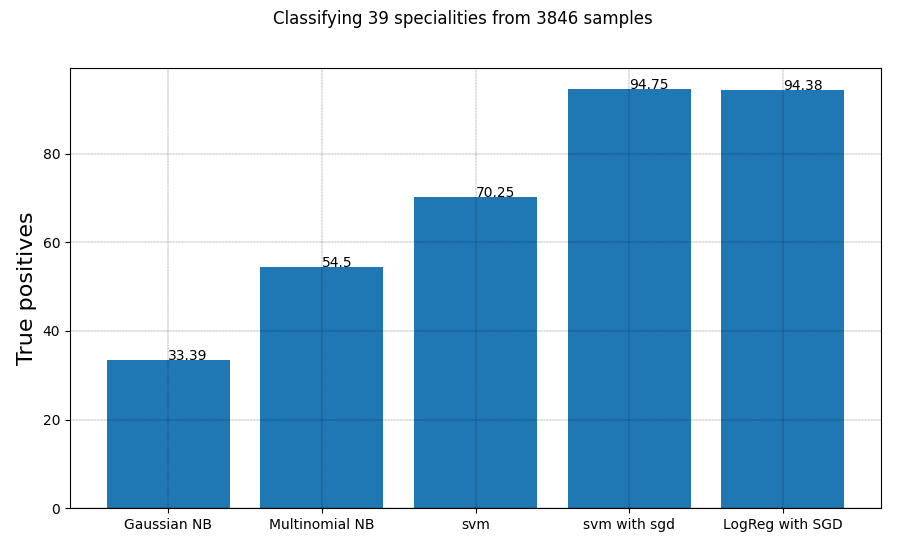
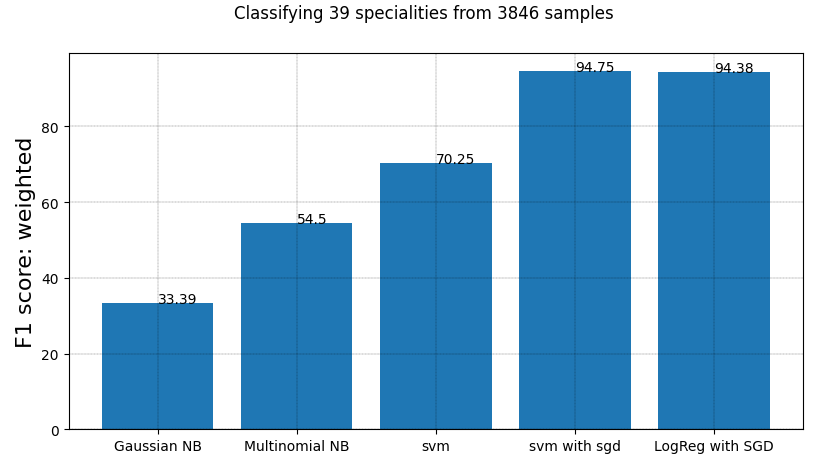
Correcting labels

diff --git a/ms_classification.py b/ms_classification.py
@@ -6,6 +6,7 @@ import matplotlib
 import matplotlib.pyplot as plt
 from sklearn import preprocessing
 from sklearn.feature_extraction.text import CountVectorizer
+from sklearn import metrics
 import os
 
 print("hello")
@@ -37,7 +38,7 @@ df.head(3)
 
 #df = df[df['medical_specialty'].isin(['Neurosurgery','ENT - Otolaryngology','Discharge Summary','Neurology'])]
 #df = df[df['medical_specialty'].isin(['ENT - Otolaryngology','Neurology'])]
-#df = df[df['medical_specialty'].isin(['Neurosurgery','Neurology'])]
+df = df[df['medical_specialty'].isin(['Neurosurgery','Neurology'])]
 
 shape(df,'df')
 
@@ -129,12 +130,23 @@ svc_pred = svc.predict(X_test)
 sgd_pred = sgd.predict(X_test)
 ll_pred = log_loss.predict(X_test)
 
-
+# Manually finding f1 (micro):
 gnb_score = np.count_nonzero(y_test==gnb_pred)/len(y_test)
 mnb_score = np.count_nonzero(y_test==mnb_pred)/len(y_test)
 svc_score = np.count_nonzero(y_test==svc_pred)/len(y_test)
 sgd_score = np.count_nonzero(y_test==sgd_pred)/len(y_test)
 lL_score = np.count_nonzero(y_test==ll_pred)/len(y_test)
+
+Nclass= len(df['medical_specialty'].unique())
+preds = [gnb_pred, mnb_pred, svc_pred, sgd_pred, ll_pred]
+
+if Nclass>2:
+    average_score = 'weighted'
+
+    f1s = [round(metrics.f1_score(y_test,i,average=average_score)*100,2) for i in preds]
+else:
+    # sklearn throwing errors cause how predications are shaped.. Manually finding f1
+    f1s = [round(np.count_nonzero(y_test==i)/len(i) * 100, 2) for i in preds]
 
 
 print("Gaussian NB has "+str(gnb_score*100)+"%")
@@ -148,15 +160,15 @@ def addlabels(x,y):
         plt.text(i,y[i],y[i])
 
 
-Nclass= len(df['medical_specialty'].unique())
 x_=['Gaussian NB','Multinomial NB','svm','svm with sgd','LogReg with SGD']
 scores=[gnb_score,mnb_score,svc_score,sgd_score,lL_score]
 scores = [round(i * 100,2) for i in scores]
-plt.bar(x_,scores)
-addlabels(x_,scores)
+plt.bar(x_,f1s)
+addlabels(x_,f1s)
 plt.grid(color='k', linestyle='--', linewidth=0.2)
 plt.suptitle('Classifying '+str(Nclass)+' specialities from '+str(len(df))+' samples')
-plt.ylabel('True positives', fontsize=16)
+plt.ylabel('F1 score', fontsize=16)
 plt.show()
+
 dum=1
 
